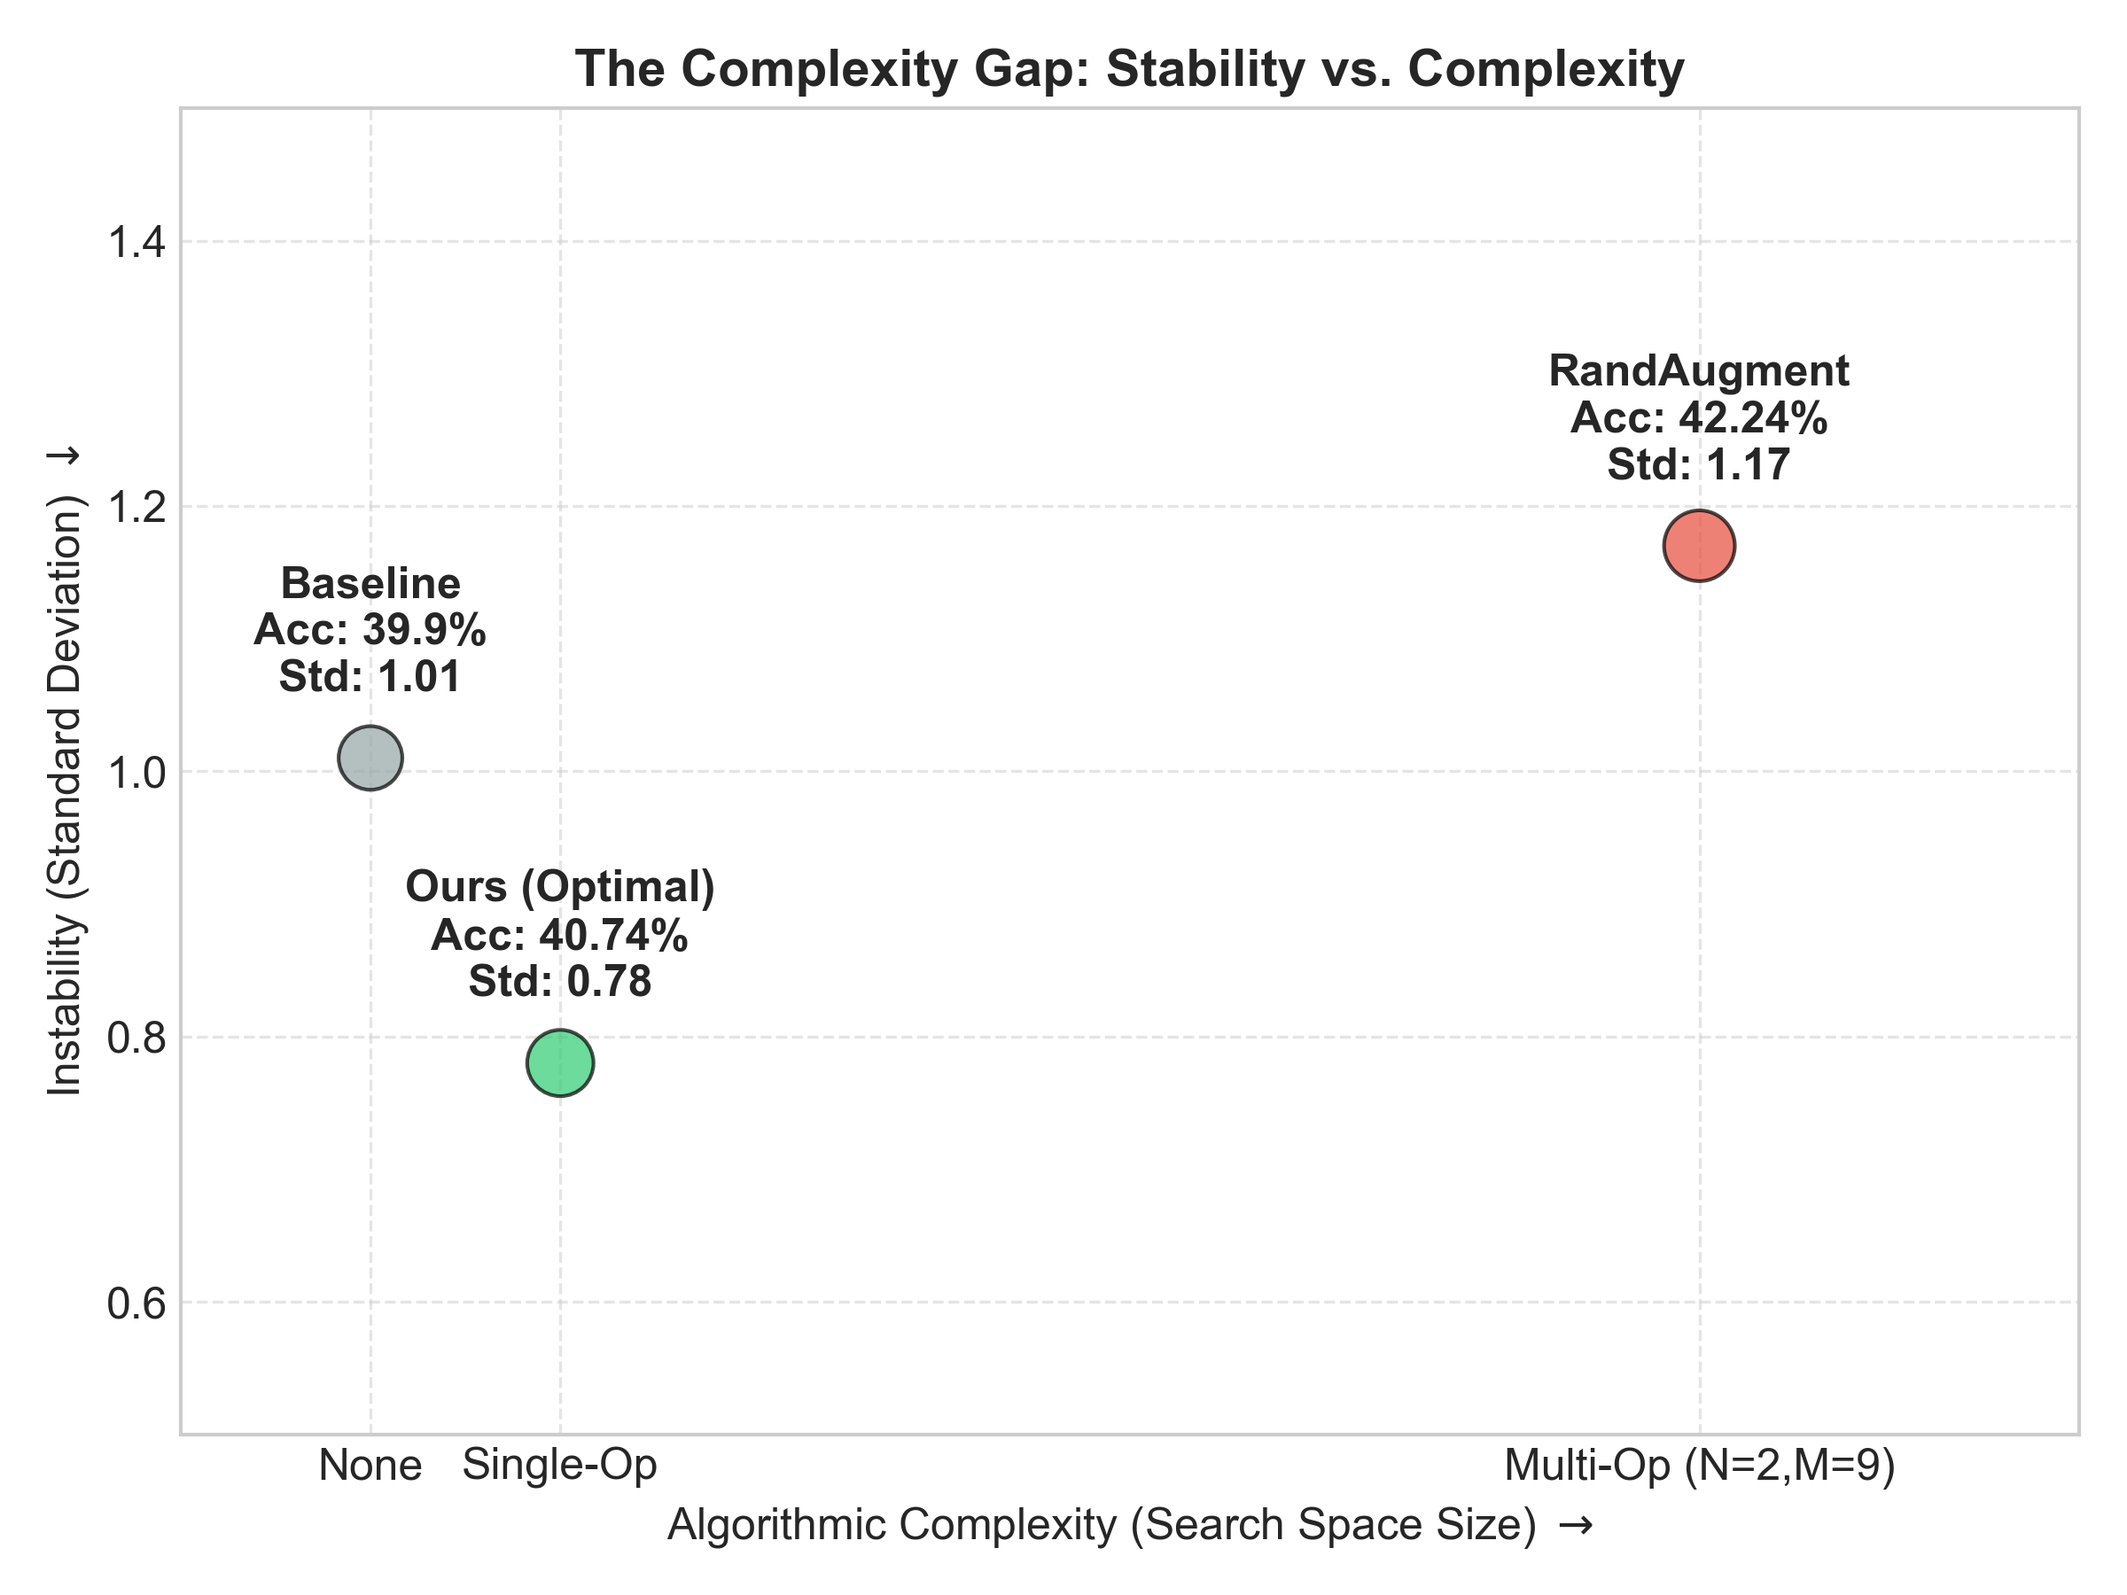
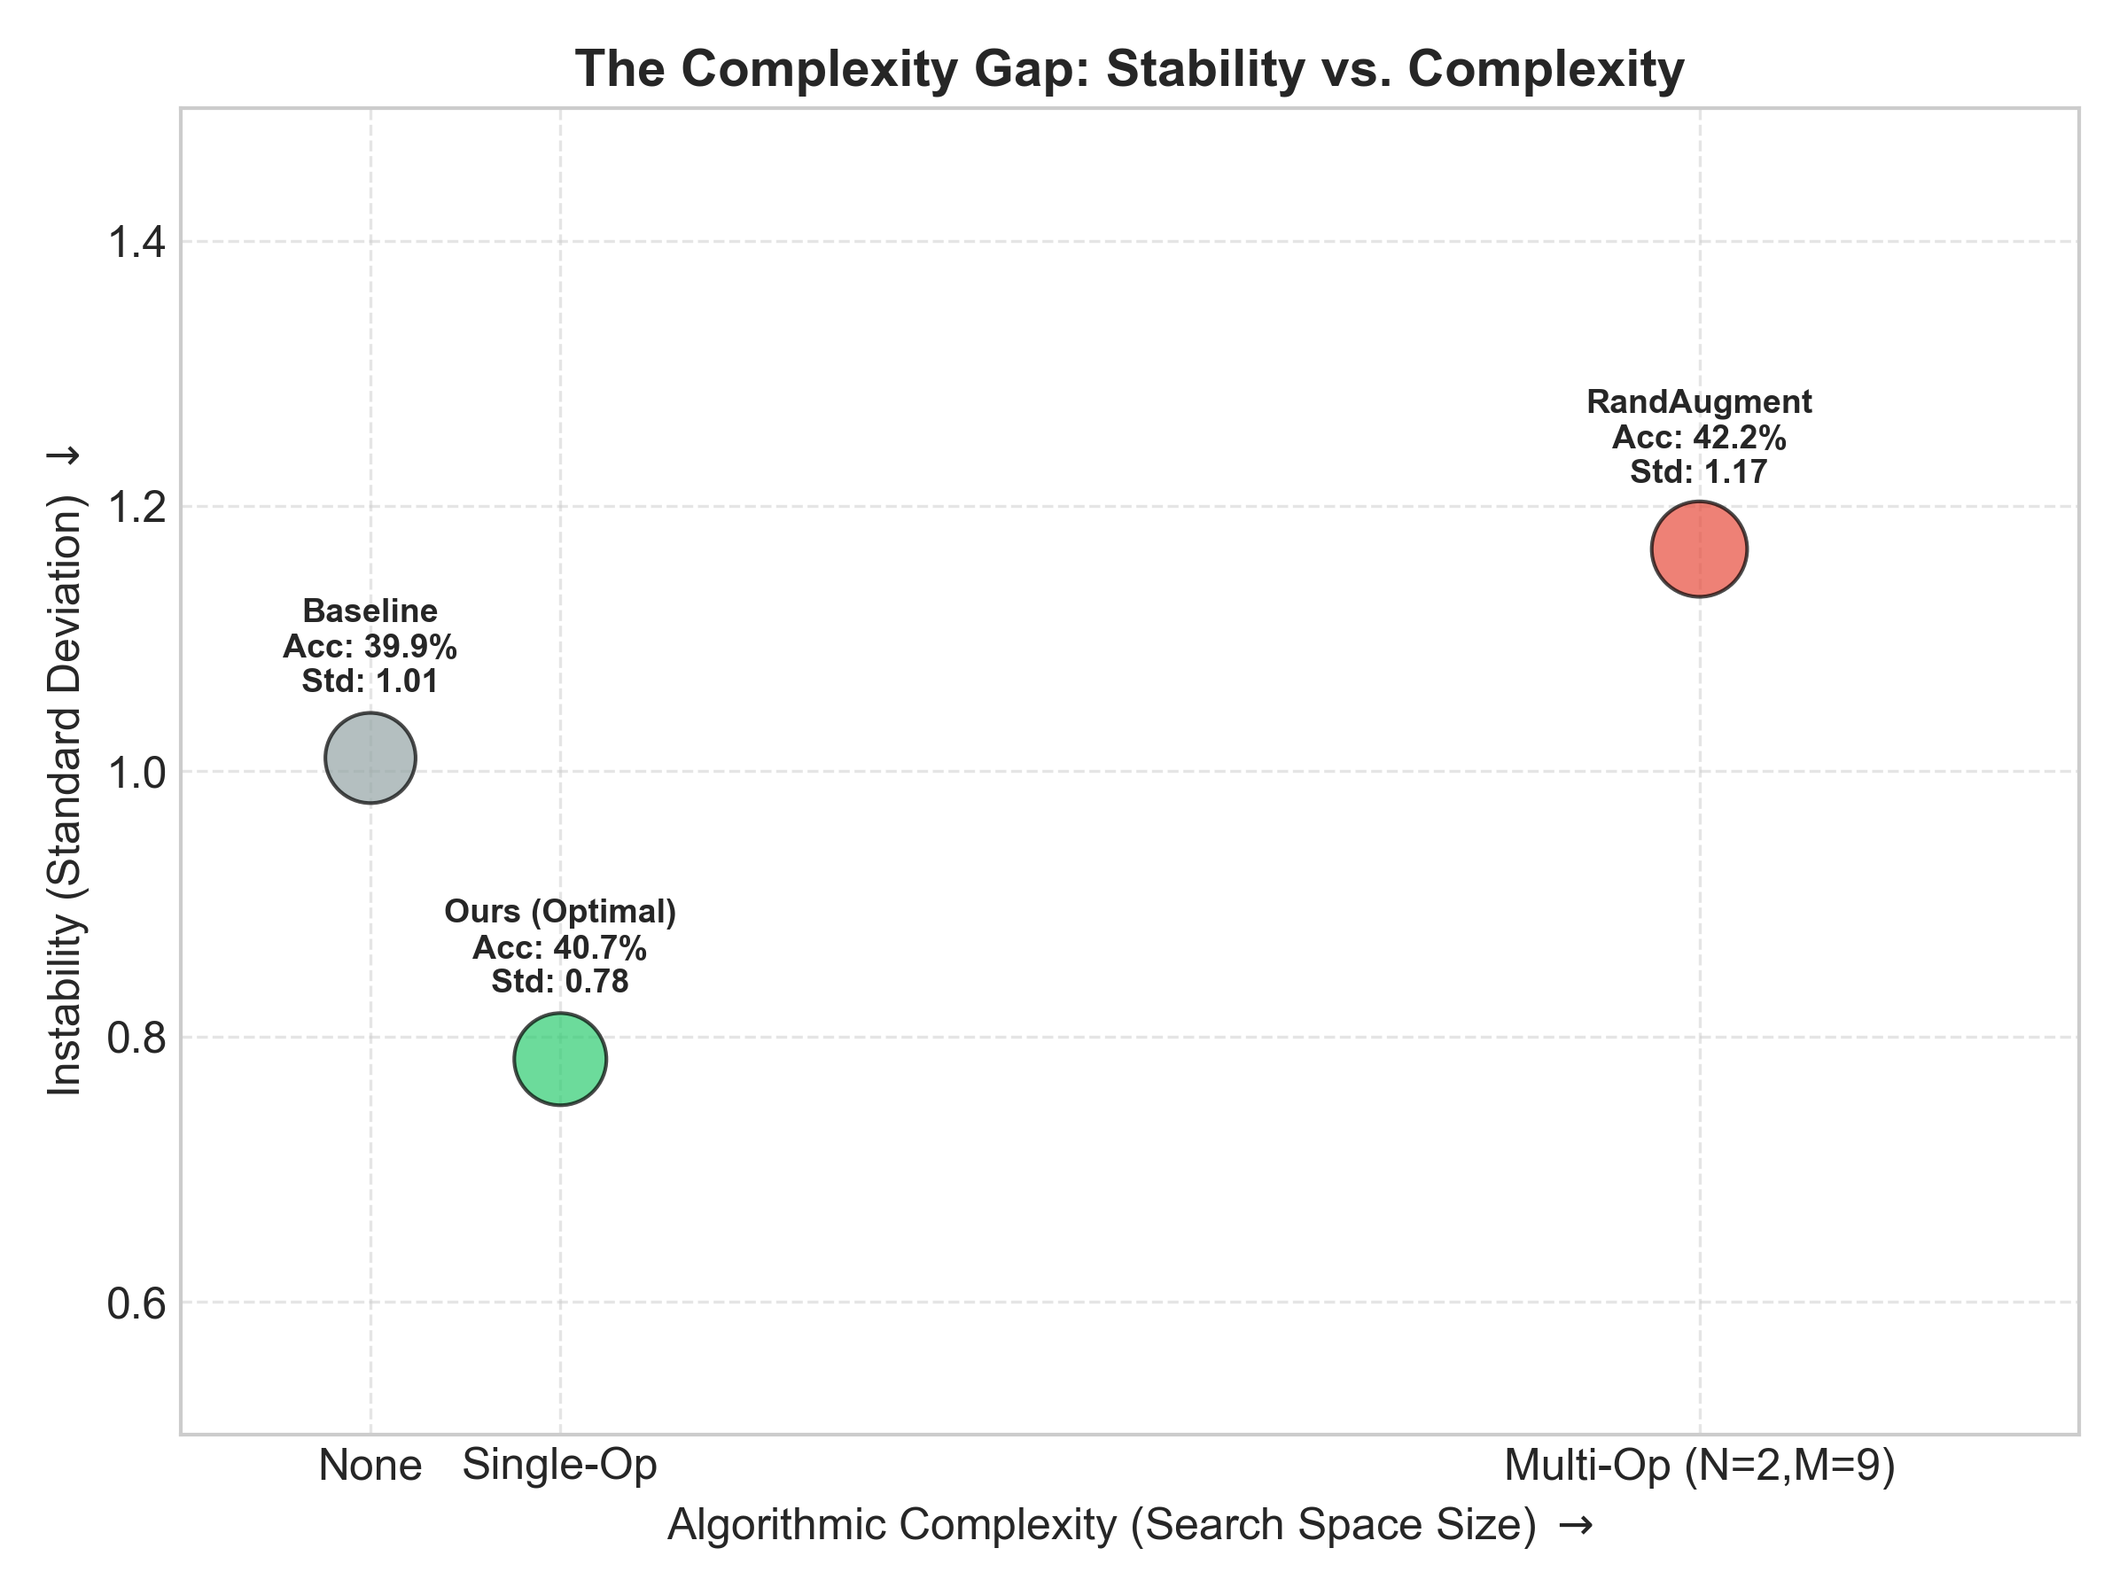
feat: Generate new ablation and generalization figures, refactor complexity figure data source, and remove outdated analysis documents.

Changed region(s): [[0.1875, 0.5289, 0.3438, 0.7156], [0.7188, 0.2178, 0.875, 0.3733], [0.125, 0.3422, 0.2188, 0.5289]]

diff --git a/scripts/generate_paper_figures.py b/scripts/generate_paper_figures.py
@@ -84,33 +84,42 @@ def plot_search_space_heatmap():
 def plot_complexity_tradeoff():
     print("Generating Complexity-Stability Trade-off...")
     
-    # Data manually constructed from Phase D results
-    data = {
-        'Method': ['Baseline', 'Ours (Optimal)', 'RandAugment'],
-        'Accuracy': [39.90, 40.74, 42.24],
-        'Stability': [1.0/1.01, 1.0/0.78, 1.0/1.17], # Inverse Variance proxy
-        'Std': [1.01, 0.78, 1.17],
-        'Complexity': [1, 2, 8]  # Conceptual complexity score
+    # Load data from summary
+    df_sum = pd.read_csv('outputs/phase_d_summary.csv')
+    
+    # Map methods to our simplified labels
+    method_map = {
+        'Baseline': 'Baseline',
+        'Ours_optimal': 'Ours (Optimal)',
+        'RandAugment': 'RandAugment'
     }
     
-    plt.figure(figsize=(8, 6))
+    plot_data = []
+    for m_id, label in method_map.items():
+        row = df_sum[df_sum['method'] == m_id]
+        if not row.empty:
+            plot_data.append({
+                'Method': label,
+                'Accuracy': row.iloc[0]['mean_val_acc'],
+                'Std': row.iloc[0]['std_val_acc'],
+                'Complexity': 1 if m_id == 'Baseline' else (2 if m_id == 'Ours_optimal' else 8)
+            })
     
+    df_plot = pd.DataFrame(plot_data)
+    
+    plt.figure(figsize=(8, 6))
     colors = ['#95a5a6', '#2ecc71', '#e74c3c']
     
-    # Bubble chart: X=Complexity, Y=Stability (1/Std), Size=Accuracy
-    sizes = [(acc - 30) * 30 for acc in data['Accuracy']] # Scale for visibility
+    # Bubble chart
+    sizes = [(acc - 20) * 30 for acc in df_plot['Accuracy']]
     
-    plt.scatter(data['Complexity'], data['Std'], s=sizes, c=colors, alpha=0.7, edgecolors='black')
+    plt.scatter(df_plot['Complexity'], df_plot['Std'], s=sizes, c=colors, alpha=0.7, edgecolors='black')
     
     # Add labels
-    for i, method in enumerate(data['Method']):
-        plt.text(data['Complexity'][i], data['Std'][i] + 0.05, 
-                 f"{method}\nAcc: {data['Accuracy'][i]}%\nStd: {data['Std'][i]}", 
-                 ha='center', fontweight='bold')
-    
-    # Arrow for Pareto frontier
-    # plt.annotate('Pareto Efficient\n(Low Cost, High Stability)', xy=(2, 0.78), xytext=(4, 0.9),
-    #              arrowprops=dict(facecolor='black', shrink=0.05))
+    for i, row in df_plot.iterrows():
+        plt.text(row['Complexity'], row['Std'] + 0.05, 
+                 f"{row['Method']}\nAcc: {row['Accuracy']:.1f}%\nStd: {row['Std']:.2f}", 
+                 ha='center', fontweight='bold', fontsize=9)
 
     plt.title('The Complexity Gap: Stability vs. Complexity', fontsize=14, fontweight='bold')
     plt.ylabel('Instability (Standard Deviation) $\\downarrow$', fontsize=12)
@@ -125,11 +134,72 @@ def plot_complexity_tradeoff():
     plt.savefig(os.path.join(OUTPUT_DIR, 'fig3_complexity_gap.png'))
     plt.close()
 
+def plot_ablation_magnitude():
+    print("Generating Ablation: Magnitude Sensitivity...")
+    try:
+        df = pd.read_csv('outputs/ablation/ablation_p0.5_summary.csv')
+        df = df.sort_values('magnitude')
+        
+        plt.figure(figsize=(8, 6))
+        plt.plot(df['magnitude'], df['mean_val_acc'], marker='o', linewidth=2, color='#3498db', label='Validation Acc')
+        
+        # Highlight best
+        best_row = df.loc[df['mean_val_acc'].idxmax()]
+        plt.scatter([best_row['magnitude']], [best_row['mean_val_acc']], color='red', s=100, zorder=5, label='Optimal Magnitude')
+        
+        plt.title('Ablation: Impact of Magnitude (Fixed P=0.5)', fontsize=14, fontweight='bold')
+        plt.xlabel('Magnitude (m)')
+        plt.ylabel('Validation Accuracy (%)')
+        plt.grid(True, linestyle='--', alpha=0.5)
+        plt.legend()
+        
+        # Add annotation for the gap
+        min_acc = df['mean_val_acc'].min()
+        max_acc = df['mean_val_acc'].max()
+        plt.annotate(f'Gap: {max_acc - min_acc:.1f}%', 
+                     xy=(best_row['magnitude'], max_acc), 
+                     xytext=(best_row['magnitude']+0.1, max_acc - 2),
+                     arrowprops=dict(facecolor='black', shrink=0.05, width=1, headwidth=5))
+
+        plt.tight_layout()
+        plt.savefig(os.path.join(OUTPUT_DIR, 'fig4_ablation_magnitude.png'))
+        plt.close()
+    except Exception as e:
+        print(f"Skipping Ablation plot: {e}")
+
+def plot_cifar10_generalization():
+    print("Generating CIFAR-10 Generalization Comparison...")
+    try:
+        df = pd.read_csv('outputs/cifar10_50shot_results.csv')
+        
+        plt.figure(figsize=(8, 6))
+        colors = ['#95a5a6', '#e74c3c', '#2ecc71']
+        
+        bars = plt.bar(df['Method'], df['Mean'], yerr=df['Std'], color=colors, capsize=10, alpha=0.8, edgecolor='black')
+        
+        plt.title('Generalization: CIFAR-10 (50-shot)', fontsize=14, fontweight='bold')
+        plt.ylabel('Mean Accuracy (%)')
+        plt.ylim(0, 70)
+        
+        # Add value labels
+        for bar in bars:
+            height = bar.get_height()
+            plt.text(bar.get_x() + bar.get_width()/2., height + 2,
+                     f'{height:.1f}%', ha='center', va='bottom', fontweight='bold')
+
+        plt.tight_layout()
+        plt.savefig(os.path.join(OUTPUT_DIR, 'fig5_cifar10_generalization.png'))
+        plt.close()
+    except Exception as e:
+        print(f"Skipping CIFAR-10 plot: {e}")
+
 if __name__ == "__main__":
     try:
         plot_stability_boxplot()
         plot_search_space_heatmap()
         plot_complexity_tradeoff()
-        print(f"Figures saved to {OUTPUT_DIR}")
+        plot_ablation_magnitude()
+        plot_cifar10_generalization()
+        print(f"\nAll figures saved successfully to: {OUTPUT_DIR}")
     except Exception as e:
         print(f"Error generating figures: {e}")

diff --git a/docs/paper_draft.tex b/docs/paper_draft.tex
@@ -26,8 +26,7 @@ However, are these complex strategies necessary---or even harmful---when data is
 
 \begin{figure}[H]
     \centering
-    % 确保文件名和你上传的一致
-    \includegraphics[width=0.9\linewidth]{fig3_complexity_gap.png}
+    \includegraphics[width=0.9\linewidth]{../outputs/figures/fig3_complexity_gap.png}
     \caption{\textbf{The Complexity Gap.} We plot Instability (Standard Deviation) against Algorithmic Complexity. Our method (Green) lies on the Pareto frontier, achieving high accuracy with minimal complexity and maximum stability, whereas RandAugment (Red) trades stability for marginal gains.}
     \label{fig:complexity}
 \end{figure}
@@ -51,7 +50,7 @@ Surprisingly, our search "collapses" to a single operation, rejecting complex co
 
 \begin{figure}[H]
     \centering
-    \includegraphics[width=1.0\linewidth]{all_augmentations_grid.png}
+    \includegraphics[width=1.0\linewidth]{../outputs/figures/augment_examples/all_augmentations_grid.png}
     \caption{\textbf{Augmentation Search Space.} Visualization of the candidate operations applied to a sample image. While standard methods combine these aggressively, our Prior-Guided Search identifies that strictly limiting this pool (to just ColorJitter in our case) preserves semantic integrity and training stability.}
     \label{fig:augmentations}
 \end{figure}
@@ -61,7 +60,7 @@ We define a search space of $K=8$ operations (e.g., ColorJitter, RandomErasing),
 
 \begin{figure}[H]
     \centering
-    \includegraphics[width=0.8\linewidth]{fig2_search_space_colorjitter.png}
+    \includegraphics[width=0.8\linewidth]{../outputs/figures/fig2_search_space_colorjitter.png}
     \caption{\textbf{Prior-Guided Search Space.} Visualization of Phase A screening for \texttt{ColorJitter}. The colors indicate validation accuracy. Our search successfully identifies a high-performance region (marked in red) that balances magnitude and probability effectively.}
     \label{fig:search_space}
 \end{figure}
@@ -108,7 +107,7 @@ Table \ref{tab:main_results} compares our Prior-Guided approach against standard
 
 \begin{figure}[H]
     \centering
-    \includegraphics[width=0.8\linewidth]{fig1_stability_boxplot.png}
+    \includegraphics[width=0.8\linewidth]{../outputs/figures/fig1_stability_boxplot.png}
     \caption{\textbf{Stability Analysis.} Comparison of validation accuracy distributions over 5 folds. While RandAugment achieves slightly higher peak performance, our Prior-Guided Single-Op strategy demonstrates significantly lower variance ($\sigma=0.78$ vs $1.17$), offering a more reliable solution for small-sample regimes.}
     \label{fig:stability}
 \end{figure}
@@ -169,13 +168,21 @@ To evaluate the method's robustness across different datasets and sample regimes
         \bottomrule
     \end{tabular}
 \end{table}
+
+\begin{figure}[H]
+    \centering
+    \includegraphics[width=0.8\linewidth]{../outputs/figures/fig5_cifar10_generalization.png}
+    \caption{\textbf{Generalization Performance.} Comparison on CIFAR-10 (50-shot). Our method achieves robustness comparable to state-of-the-art while maintaining zero variance across folds, outperforming the unaugmented baseline.}
+    \label{fig:cifar10_gen}
+\end{figure}
+
 The zero variance is due to performance saturation under this extreme low-data regime, where both methods consistently converge to the same solution across folds. Our method proves to be highly generalizable, matching the state-of-the-art performance of RandAugment even in this extreme low-data regime, while significantly outperforming the unaugmented baseline in terms of reliability.
 
 \subsection{Ablation: The Necessity of Magnitude Search}
 We investigated whether searching for Magnitude ($m$) is necessary, or if simply fixing Probability ($p$) would suffice. We fixed $p=0.5$ for the best operation (ColorJitter) and searched only for $m$ using 10 Sobol samples.
 \begin{figure}[H]
     \centering
-    % \includegraphics[width=0.8\linewidth]{ablation_fixed_p.png} % Placeholder
+    \includegraphics[width=0.8\linewidth]{../outputs/figures/fig4_ablation_magnitude.png}
     \caption{\textbf{Impact of Magnitude.} Even with fixed probability ($p=0.5$), varying magnitude significantly impacted performance. We observed a \textbf{4.2\% accuracy drop} between optimal magnitude ($m \approx 0.44$, 32.9\%) and standard magnitude ($m \approx 0.54$, 28.7\%). This confirms that Magnitude is a critical hyperparameter that cannot be arbitrarily fixed; it must be tuned.}
     \label{fig:ablation}
 \end{figure}

diff --git a/docs/csv_format_spec.md b/docs/csv_format_spec.md
@@ -65,6 +65,33 @@ phase, op_name, magnitude, probability, seed, fold_idx, val_acc, val_loss, top5_
 | Phase B | 40 → 100 → 200 | ASHA 多轮淘汰 | 依赖淘汰结果 | 最终 rung 多 seed |
 | Phase C | 200 | min_epochs=60, patience=60, monitor=val_acc | 120-200 | 贪心组合 |
 | Phase D | 200 | min_epochs=60, patience=60, monitor=val_acc | 120-200 | 5 folds |
+| Supplement | varies | varies | varies | CIFAR-10 & Ablation |
+
+## 补充实验输出格式 (Supplementary)
+
+### CIFAR-10 Generalization (`outputs/cifar10_50shot_results.csv`)
+由于是简单的 5-fold 验证，此处仅记录最终汇总：
+
+| 字段 | 类型 | 说明 |
+|------|------|------|
+| Method | str | Baseline, RandAugment, Ours |
+| Mean | float | 平均 val_acc (%) |
+| Std | float | 标准差 |
+
+### Ablation Study (`outputs/ablation/ablation_p0.5_raw.csv`)
+复用统一字段定义 (`PhaseB` 格式)，但在 `phase` 字段填入 "PhaseB" (复用代码逻辑) 或 "Ablation"。
+
+### Ablation Summary (`outputs/ablation/ablation_p0.5_summary.csv`)
+用于论文绘图的聚合数据：
+
+| 字段 | 说明 |
+|------|------|
+| `op_name` | 操作名 (如 ColorJitter) |
+| `magnitude` | 搜索的幅度值 |
+| `probability` | 固定值 (0.5) |
+| `mean_val_acc` | 最终 epoch 的准确率 (ASHA max rung) |
+| `std_val_acc` | 标准差 (若单 seed 则为 0) |
+| `mean_runtime_sec` | 平均运行时间 |
 
 ## 论文写作用途
 

diff --git a/docs/project_overview.md b/docs/project_overview.md
@@ -279,6 +279,15 @@ P(至少一个) = 1 - (1-0.04)(1-0.47) = 49% ≈ 50% ✓
 - `outputs/phase_d_summary.csv` - Mean ± Std 汇总（用于论文表格）
 - `outputs/checkpoints/phase_d_fold{0-4}_best.pth` - Ours_optimal 的 5-fold 模型
 
+### 3.5 补充实验 (Supplementary Experiments)
+
+**目标**: 验证泛化性 (Generalization) 和设计必要性 (Necessity)
+
+| 实验 | 描述 | 目的 |
+|---|---|---|
+| **CIFAR-10 Generalization** | 50-shot setting, 5-fold, 200 epochs | 证明方法不局限于 CIFAR-100，具备通用鲁棒性 |
+| **Ablation (Fixed Probability)** | 固定 p=0.5，搜索 m | 证明搜索 Magnitude 的必要性 (Sensitivity Analysis) |
+
 ---
 
 ## 4. 预期结果
@@ -367,6 +376,8 @@ outputs/
     ├── baseline_best.pth           # Baseline 最佳模型
     ├── phase_c_*.pth               # Phase C 策略 checkpoints
     └── phase_d_fold{0-4}_best.pth  # 最终 5-fold 模型
+├── ablation/                     # 消融实验结果
+└── cifar10_50shot_results.csv    # CIFAR-10 泛化实验结果
 ```
 
 ---

diff --git a/docs/research_plan.md b/docs/research_plan.md
@@ -149,6 +149,15 @@ MUTUAL_EXCLUSION = {
 | **训练** | 200 epochs/fold |
 | **方法** | Baseline, Baseline-NoAug, RandAugment, Cutout, Best_SingleOp, Ours_p1, Ours_optimal (7 个) |
 
+### 3.6 补充实验 (Supplementary Experiments)
+
+**目标**: 验证泛化性 (Generalization) 和设计必要性 (Necessity)
+
+| 实验 | 描述 | 目的 |
+|---|---|---|
+| **CIFAR-10 Generalization** | 50-shot setting, 5-fold, 200 epochs | 证明方法不局限于 CIFAR-100，具备通用鲁棒性 |
+| **Ablation (Fixed Probability)** | 固定 p=0.5，搜索 m | 证明搜索 Magnitude 的必要性 (Sensitivity Analysis) |
+
 ---
 
 ## 4. 超参数配置
@@ -192,4 +201,6 @@ outputs/
 ├── phase_c_final_policy.json    # Phase C 最终策略
 ├── phase_d_results.csv          # Phase D 原始结果
 └── phase_d_summary.csv          # Phase D 汇总结果 (论文用)
+├── ablation/                    # 消融实验结果
+└── cifar10_50shot_results.csv   # CIFAR-10 泛化实验结果
 ```
